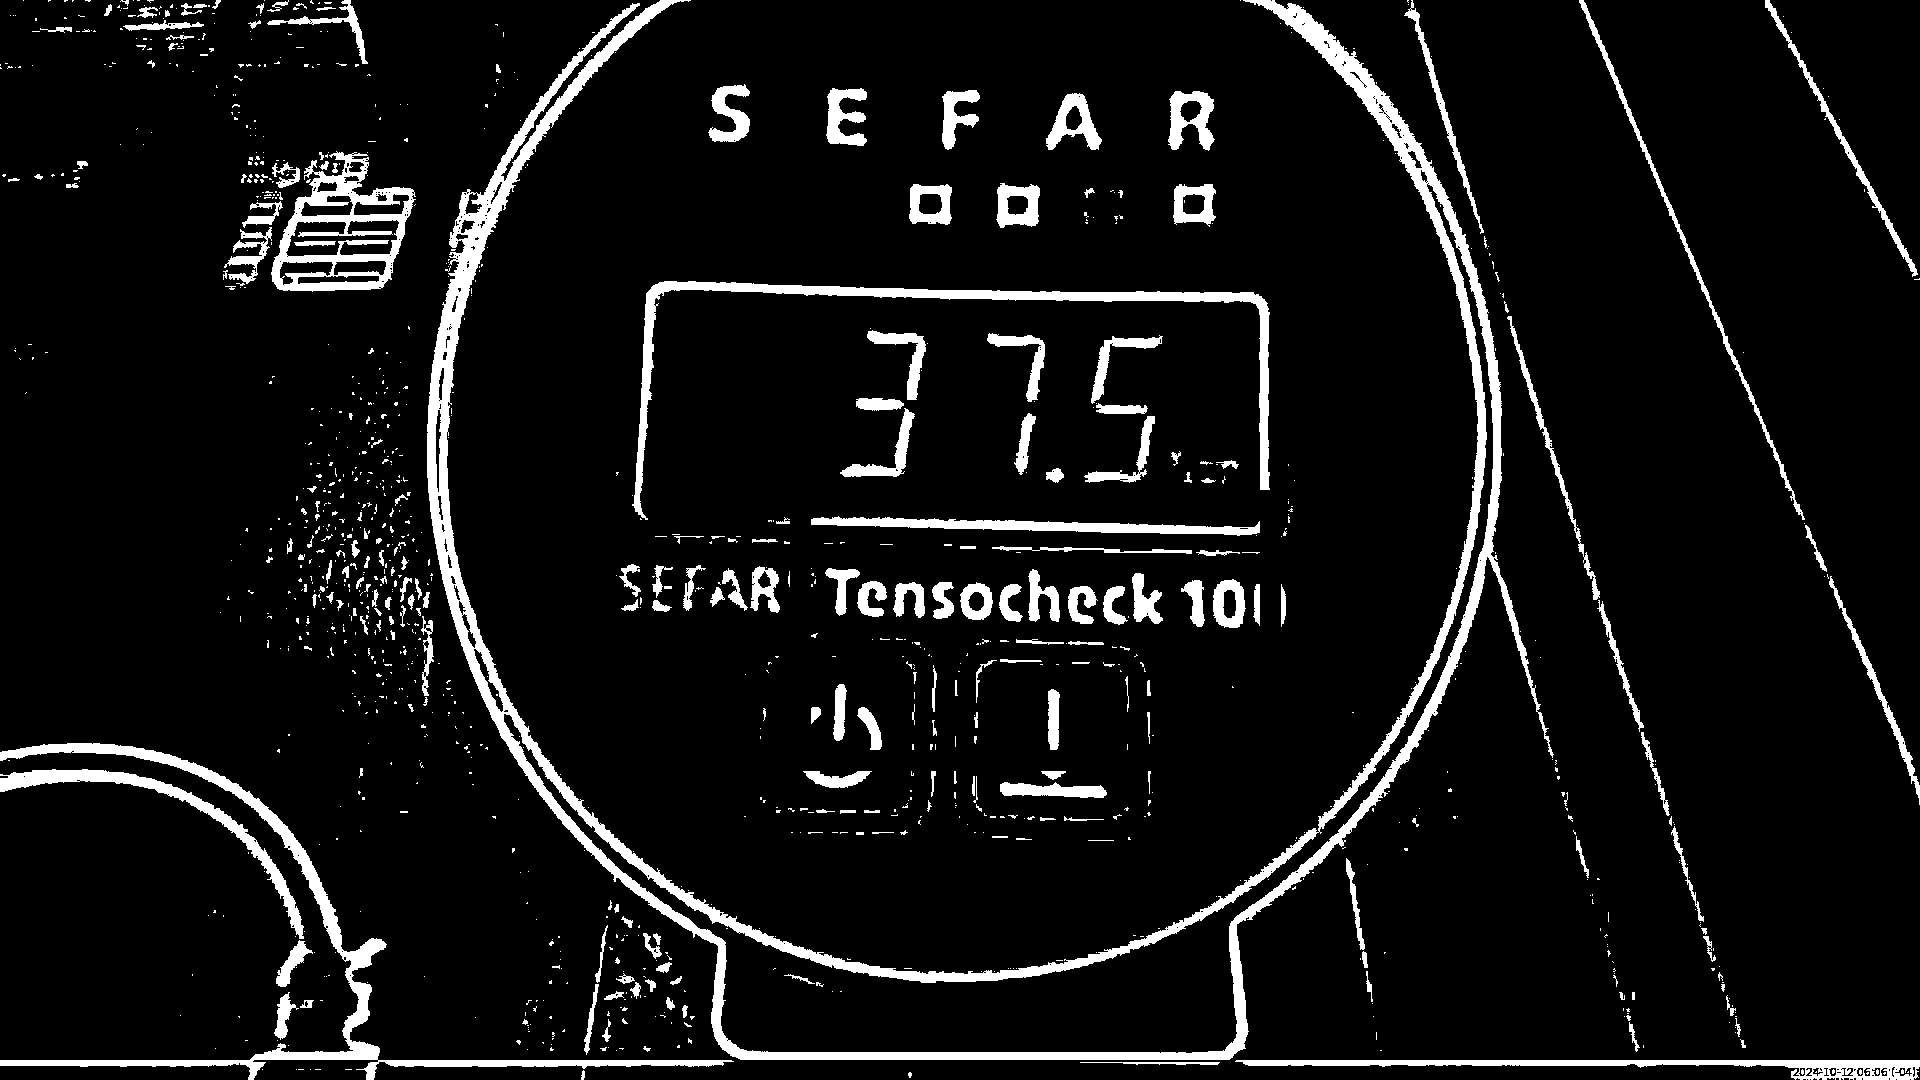
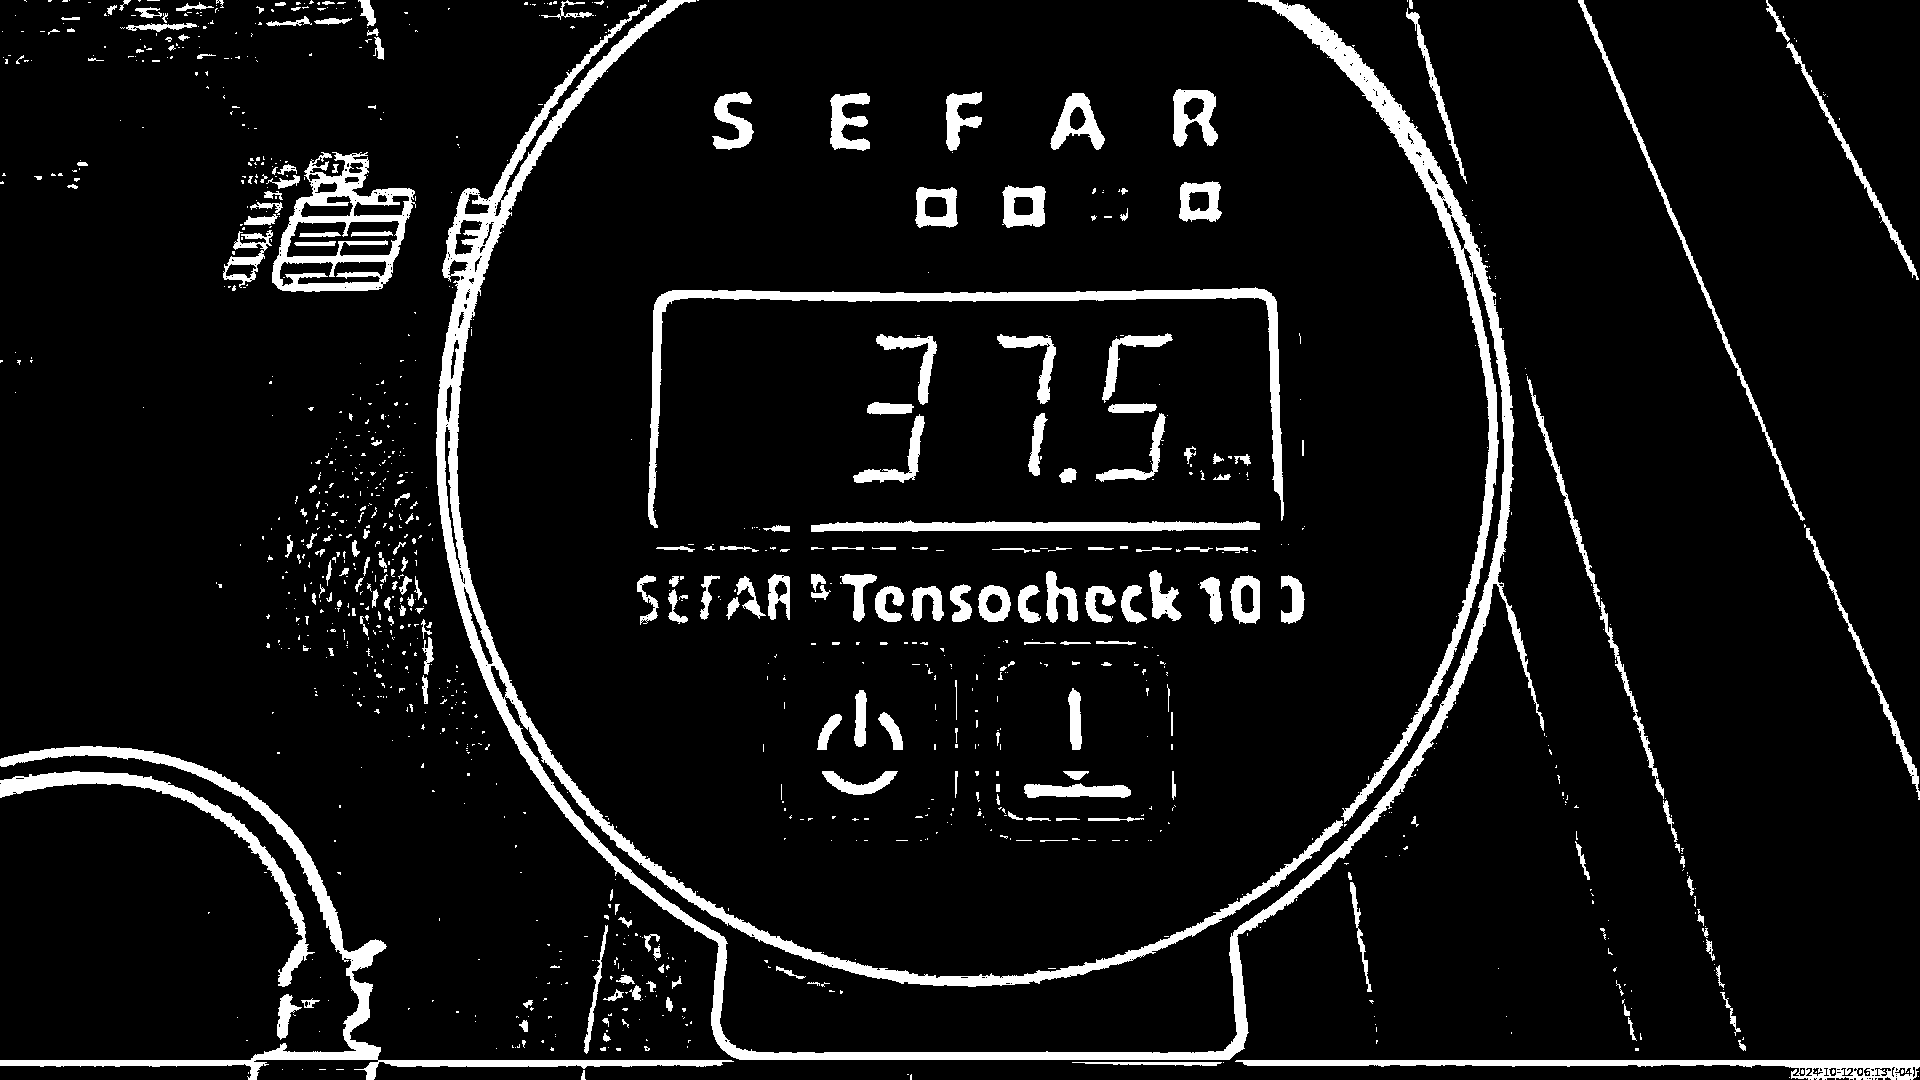
TESTE

diff --git a/backend/dashboard/services/TensionService.py b/backend/dashboard/services/TensionService.py
@@ -133,11 +133,10 @@ class TensionService:
     def prepare_images1(self):
         imagemOriginal = cv2.imread('images_final/ponto_1.png')        
 
-        imagemOriginal2 = imagemOriginal[190:410,750:1200]
+        imagemOriginal2 = imagemOriginal[300:500,650:1300]
         #imagemOriginal = imagemOriginal[510:720,800:1210]
         #imagemOriginal = imagemOriginal[500:750,840:1280]
-        imagemOriginal = imagemOriginal[190:410,750:1200]
-
+        imagemOriginal = imagemOriginal[300:500,650:1300]
         
 
         
@@ -168,9 +167,9 @@ class TensionService:
         denoised = cv2.GaussianBlur(imagemOriginal, (7, 7), 0)
         novo_tamanho = (denoised.shape[1] * 2, denoised.shape[0] * 2)
 
-        denoised = cv2.resize(denoised, novo_tamanho, interpolation=cv2.INTER_NEAREST)
+        denoised2 = cv2.resize(denoised, novo_tamanho, interpolation=cv2.INTER_NEAREST)
 
-        path = "images_final/ponto_1_tratada.png"
+        path = "images_final/ponto_1_tratada_processada_para_leitura.png"
         cv2.imwrite(path, denoised)
 
         
@@ -188,19 +187,25 @@ class TensionService:
 
     def prepare_images2(self):
         imagemOriginal = cv2.imread('images_final/ponto_2.png') 
-        imagemOriginal2 = imagemOriginal[190:410,750:1200]
+        '''imagemOriginal2 = imagemOriginal[300:500,650:1300]
         #imagemOriginal = imagemOriginal[510:720,800:1210]
         #imagemOriginal = imagemOriginal[500:750,840:1280]
-        imagemOriginal = imagemOriginal[190:410,750:1200]
+        imagemOriginal = imagemOriginal[300:500,650:1300]'''
+        imagemOriginal2 = imagemOriginal[300:500,650:1300]
+        #imagemOriginal = imagemOriginal[510:720,800:1210]
+        #imagemOriginal = imagemOriginal[500:750,840:1280]
+        imagemOriginal = imagemOriginal[300:500,650:1300]
 
         
        
         # Passo 3: Reduzir ruído com um leve desfoque
         denoised = cv2.GaussianBlur(imagemOriginal, (7, 7), 0)
         novo_tamanho = (denoised.shape[1] * 2, denoised.shape[0] * 2)
+
+        denoised2 = cv2.resize(denoised, novo_tamanho, interpolation=cv2.INTER_NEAREST)
  
 
-        path = "images_final/ponto_2_tratada.png"
+        path = "images_final/ponto_2_tratada_processada_para_leitura.png"
         cv2.imwrite(path, denoised)
         
         # Usa ExtractTextInImage para extrair o texto
@@ -217,45 +222,24 @@ class TensionService:
     
     def prepare_images3(self):
         imagemOriginal = cv2.imread('images_final/ponto_3.png') 
-
-        imagemOriginal2 = imagemOriginal[190:410,750:1200]
+        imagemOriginal2 = imagemOriginal[300:500,650:1300]
         #imagemOriginal = imagemOriginal[510:720,800:1210]
         #imagemOriginal = imagemOriginal[500:750,840:1280]
-        imagemOriginal = imagemOriginal[190:410,750:1200]
+        imagemOriginal = imagemOriginal[300:500,650:1300]
 
         
-      
-
+       
         # Passo 3: Reduzir ruído com um leve desfoque
-        denoised = imagemOriginal
+        denoised = cv2.GaussianBlur(imagemOriginal, (7, 7), 0)
         novo_tamanho = (denoised.shape[1] * 2, denoised.shape[0] * 2)
+ 
 
-        denoised = cv2.resize(denoised, novo_tamanho, interpolation=cv2.INTER_NEAREST)
-
-        #AQUI>>>>>>>>>>>>>>>>>>>>>>>>>>>>>>>>>>>>>>>>>>>>>>>>>>>>>>>
-        gray = cv2.cvtColor(denoised, cv2.COLOR_BGR2GRAY)
-
-        # Aplicar filtro bilateral (remove ruído sem perder bordas)
-        gray = cv2.bilateralFilter(gray, 11, 17, 17)
-
-        # Aplicar threshold adaptativo
-        thresh = cv2.adaptiveThreshold(gray, 255, cv2.ADAPTIVE_THRESH_MEAN_C, cv2.THRESH_BINARY_INV, 19, 5)
-
-        # Opcional: dilatar para reforçar linhas finas (ajustável)
-        kernel = cv2.getStructuringElement(cv2.MORPH_RECT, (6, 6))
-        thresh = cv2.dilate(thresh, kernel, iterations=7)
-
-        path_bin = "images_final/ponto_3_binaria.png"
-        cv2.imwrite(path_bin, thresh)
-
-        
-
-        path = "images_final/ponto_3_tratada.png"
+        path = "images_final/ponto_3_tratada_processada_para_leitura.png"
         cv2.imwrite(path, denoised)
-
+        
         # Usa ExtractTextInImage para extrair o texto
-        extrator = ExtractTextInImage(path_bin,3)
-        resultado = extrator.extract_text(image=path_bin,image_path_original=imagemOriginal2)
+        extrator = ExtractTextInImage(path,3)
+        resultado = extrator.extract_text(image=path, image_path_original=imagemOriginal2)
         
         textoResposta = extrator.normalize_text(resultado)
         
@@ -266,24 +250,22 @@ class TensionService:
     
     def prepare_images4(self):
         imagemOriginal = cv2.imread('images_final/ponto_4.png') 
-        imagemOriginal2 = imagemOriginal[190:410,750:1200]
+        imagemOriginal2 = imagemOriginal[300:500,650:1300]
         #imagemOriginal = imagemOriginal[510:720,800:1210]
         #imagemOriginal = imagemOriginal[500:750,840:1280]
-        imagemOriginal = imagemOriginal[190:410,750:1200]
+        imagemOriginal = imagemOriginal[300:500,650:1300]
 
-
+        
+       
         # Passo 3: Reduzir ruído com um leve desfoque
         denoised = cv2.GaussianBlur(imagemOriginal, (7, 7), 0)
-        #gray = cv2.cvtColor(denoised, cv2.COLOR_BGR2GRAY)
-        #equalized = cv2.equalizeHist(gray)
         novo_tamanho = (denoised.shape[1] * 2, denoised.shape[0] * 2)
+ 
 
-        denoised = cv2.resize(denoised, novo_tamanho, interpolation=cv2.INTER_NEAREST)
-
-        path = "images_final/ponto_4_tratada.png"
-
+        path = "images_final/ponto_4_tratada_processada_para_leitura.png"
         cv2.imwrite(path, denoised)
         
+        # Usa ExtractTextInImage para extrair o texto
         extrator = ExtractTextInImage(path,4)
         resultado = extrator.extract_text(image=path, image_path_original=imagemOriginal2)
         

diff --git a/backend/dashboard/text_reconize/TextExtract.py b/backend/dashboard/text_reconize/TextExtract.py
@@ -140,28 +140,25 @@ class ExtractTextInImage:
             print(f'{resultado[1]} ')
         
         
-        if '1' in resultadoEncontrados[0] or '1' in resultadoEncontrados[0]:
-            '''print("Resolvendo confusão entre 1 e 7...")
-            resolve = ResolveDigists(image_path_original, self.point)
-            resultado = resolve.resolve_digits()'''
-            # Pré-processamento
-            gray = cv2.cvtColor(image_path_original, cv2.COLOR_BGR2GRAY)
-            thresh = cv2.adaptiveThreshold(gray, 255, cv2.ADAPTIVE_THRESH_MEAN_C, cv2.THRESH_BINARY_INV, 19, 5)
-            nucleo = cv2.getStructuringElement(cv2.MORPH_ELLIPSE, (3, 3))
-            thresh = cv2.dilate(thresh, nucleo, iterations=7)
+            if '1' in resultadoEncontrados[0] or '1' in resultadoEncontrados[0]:
+                print("Resolvendo confusão entre 1 e 7...")
+                resolve = ResolveDigists(image_path_original, self.point)
+                resultado = resolve.resolve_digits()
+                # Pré-processamento
+                gray = cv2.cvtColor(image_path_original, cv2.COLOR_BGR2GRAY)
+                thresh = cv2.adaptiveThreshold(gray, 255, cv2.ADAPTIVE_THRESH_MEAN_C, cv2.THRESH_BINARY_INV, 19, 5)
+                nucleo = cv2.getStructuringElement(cv2.MORPH_ELLIPSE, (3, 3))
+                thresh = cv2.dilate(thresh, nucleo, iterations=7)
 
-            cv2.imwrite(f"FAGNER-ponto_{self.point}-PROCESSADA_TRATAMENTO-7-{self.point}.png", thresh)
+                cv2.imwrite(f"FAGNER-ponto_{self.point}-PROCESSADA_TRATAMENTO-7-{self.point}.png", thresh)
 
-            reader = easyocr.Reader(["pt"], gpu=True)
-            resultados = reader.readtext(image=thresh, detail=1, allowlist='0123456789', paragraph=False)
-            resultadoEncontrados = []
-            print("textos encontrados")
-            for resultado in resultados:
-                resultadoEncontrados.append(resultado[1])
-                print(f'{resultado[1]} ')
+                reader = easyocr.Reader(["pt"], gpu=True)
+                resultados = reader.readtext(image=thresh, detail=1, allowlist='0123456789', paragraph=False)
+                
+                return resultado    
 
 
-                return resultadoEncontrados[0]
+                    #return resultadoEncontrados
         
         print(f"Resultados do OCR APOS LEIURA - {self.point}:{resultadoEncontrados}")
         return resultadoEncontrados[0];

diff --git a/backend/Fagner/TensionService.py b/backend/Fagner/TensionService.py
@@ -20,7 +20,7 @@ class TensionService:
         self.final_image_dir = 'images_final'
         self.clp_url = "opc.tcp://192.168.1.1:4840"
         self.client = Client(self.clp_url)
-        self.robo = True #TROQUE AQUI PARA TRUE SE FOR ROBO
+        self.robo = False #TROQUE AQUI PARA TRUE SE FOR ROBO
 
         # Defina o endereço IP da Raspberry Pi, usuário e senha
         self.raspberry_ip = '192.168.1.98'
@@ -148,21 +148,6 @@ class TensionService:
 
         denoised = cv2.resize(denoised, novo_tamanho, interpolation=cv2.INTER_NEAREST)
 
-        #AQUI>>>>>>>>>>>>>>>>>>>>>>>>>>>>>>>>>>>>>>>>>>>>>>>>>>>>>>>
-        '''gray = cv2.cvtColor(denoised, cv2.COLOR_BGR2GRAY)
-
-        # Aplicar filtro bilateral (remove ruído sem perder bordas)
-        gray = cv2.bilateralFilter(gray, 11, 17, 17)
-
-        # Aplicar threshold adaptativo
-        thresh = cv2.adaptiveThreshold(gray, 255, cv2.ADAPTIVE_THRESH_MEAN_C, cv2.THRESH_BINARY_INV, 19, 5)
-
-        # Opcional: dilatar para reforçar linhas finas (ajustável)
-        kernel = cv2.getStructuringElement(cv2.MORPH_RECT, (6, 6))
-        thresh = cv2.dilate(thresh, kernel, iterations=5)
-
-        path_bin = "images_final/ponto_1_binaria.png"
-        cv2.imwrite(path_bin, thresh)'''
         
          # Passo 3: Reduzir ruído com um leve desfoque
         denoised = cv2.GaussianBlur(imagemOriginal, (7, 7), 0)
@@ -171,6 +156,7 @@ class TensionService:
         denoised = cv2.resize(denoised, novo_tamanho, interpolation=cv2.INTER_NEAREST)
 
         path = "images_final/ponto_1_tratada_processamento.png"
+        print("Imagem Processada", path)
         cv2.imwrite(path, denoised)
 
         

diff --git a/backend/Tesserack/Tesseract.py b/backend/Tesserack/Tesseract.py
@@ -1,0 +1,42 @@
+
+import pytesseract
+import cv2
+pytesseract.pytesseract.tesseract_cmd = r'C:\Tesseract-OCR\tesseract.exe'
+
+# Reconhecimento de dígitos na imagem "BinarizadaGausianaAberta.jpg"
+imagemOriginal = cv2.imread('ponto_1_tratada_processada_para_leitura.png',1)
+
+if imagemOriginal is None:
+    raise ValueError("Não foi possível carregar a imagem")
+
+# Processamento de imagem
+gray_image = cv2.cvtColor(imagemOriginal, cv2.COLOR_BGR2GRAY)
+imgTratada = cv2.medianBlur(gray_image, 7)
+imgTratada = imgTratada[20:880, 380:1100]
+
+# Binarização
+th3 = cv2.adaptiveThreshold(imgTratada, 255, cv2.ADAPTIVE_THRESH_GAUSSIAN_C, 
+                          cv2.THRESH_BINARY_INV, 19, 2)
+
+# Operações morfológicas
+kernel = cv2.getStructuringElement(cv2.MORPH_ELLIPSE, (3, 3))
+th3Open = cv2.dilate(th3, kernel, iterations=20)
+th3Open = cv2.erode(th3Open, kernel, iterations=10)
+
+cv2.imwrite('BinarizadaGausianaAberta.jpg', th3Open)
+
+# Encontrar contornos
+contornos, _ = cv2.findContours(th3Open, cv2.RETR_EXTERNAL, cv2.CHAIN_APPROX_SIMPLE)
+recognized_digits = ""
+
+for cnt in contornos:
+    x, y, w, h = cv2.boundingRect(cnt)
+    roi = th3Open[y:y+h, x:x+w]
+    
+    # Configuração do Tesseract para dígitos apenas
+    custom_config = r'--oem 3 --psm 10 -c tessedit_char_whitelist=0123456789'
+    text = pytesseract.image_to_string(roi, config=custom_config)
+    
+    recognized_digits += text.strip()
+
+print(recognized_digits)

diff --git a/backend/Tesserack/TesserackGrok.py b/backend/Tesserack/TesserackGrok.py
@@ -1,0 +1,35 @@
+import pytesseract
+import cv2
+
+# Configuração do Tesseract
+pytesseract.pytesseract.tesseract_cmd = r'C:\Tesseract-OCR\tesseract.exe'
+
+# Carregar a imagem
+imagemOriginal = cv2.imread('2.png', 1)
+
+if imagemOriginal is None:
+    raise ValueError("Não foi possível carregar a imagem")
+
+# Processamento de imagem
+gray_image = cv2.cvtColor(imagemOriginal, cv2.COLOR_BGR2GRAY)
+imgTratada = cv2.medianBlur(gray_image, 3)  # Desfoque leve
+imgTratada = imgTratada[20:880, 380:1100]
+
+# Binarização adaptativa com ajuste nos parâmetros
+th3 = cv2.adaptiveThreshold(imgTratada, 255, cv2.ADAPTIVE_THRESH_GAUSSIAN_C, 
+                           cv2.THRESH_BINARY_INV, 21, 3)
+
+# Operações morfológicas com menos iterações
+kernel = cv2.getStructuringElement(cv2.MORPH_ELLIPSE, (3, 3))
+th3Open = cv2.dilate(th3, kernel, iterations=25)
+th3Open = cv2.erode(th3Open, kernel, iterations=10)
+
+cv2.imwrite('BinarizadaGausianaAberta.jpg', th3Open)
+
+# Tentar reconhecimento direto na imagem binarizada
+custom_config = r'--oem 3 --psm 7 -c tessedit_char_whitelist=0123456789.'
+recognized_digits = pytesseract.image_to_string(th3Open, config=custom_config).strip()
+
+print("Dígitos reconhecidos (direto):", recognized_digits)
+
+  
